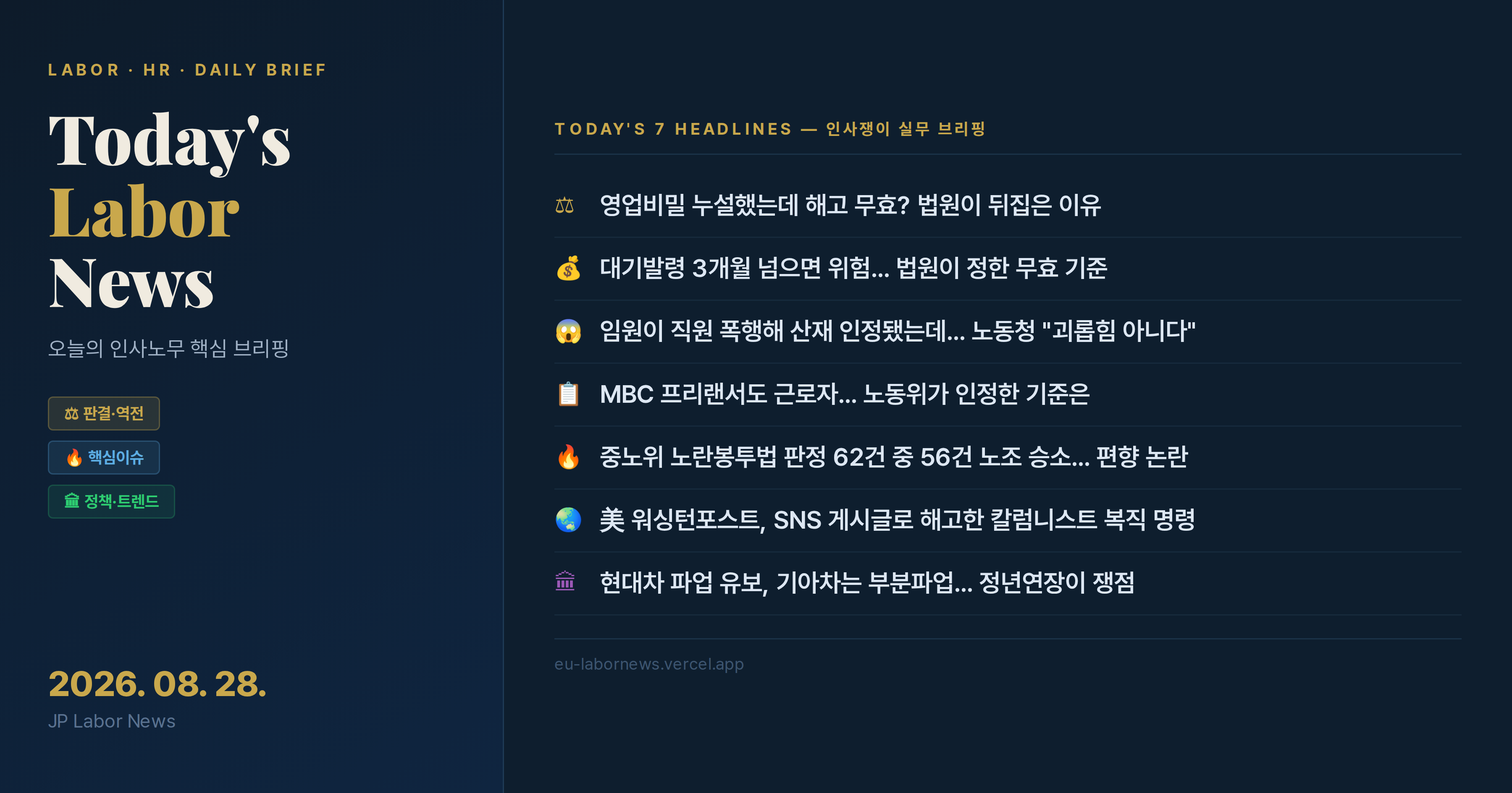
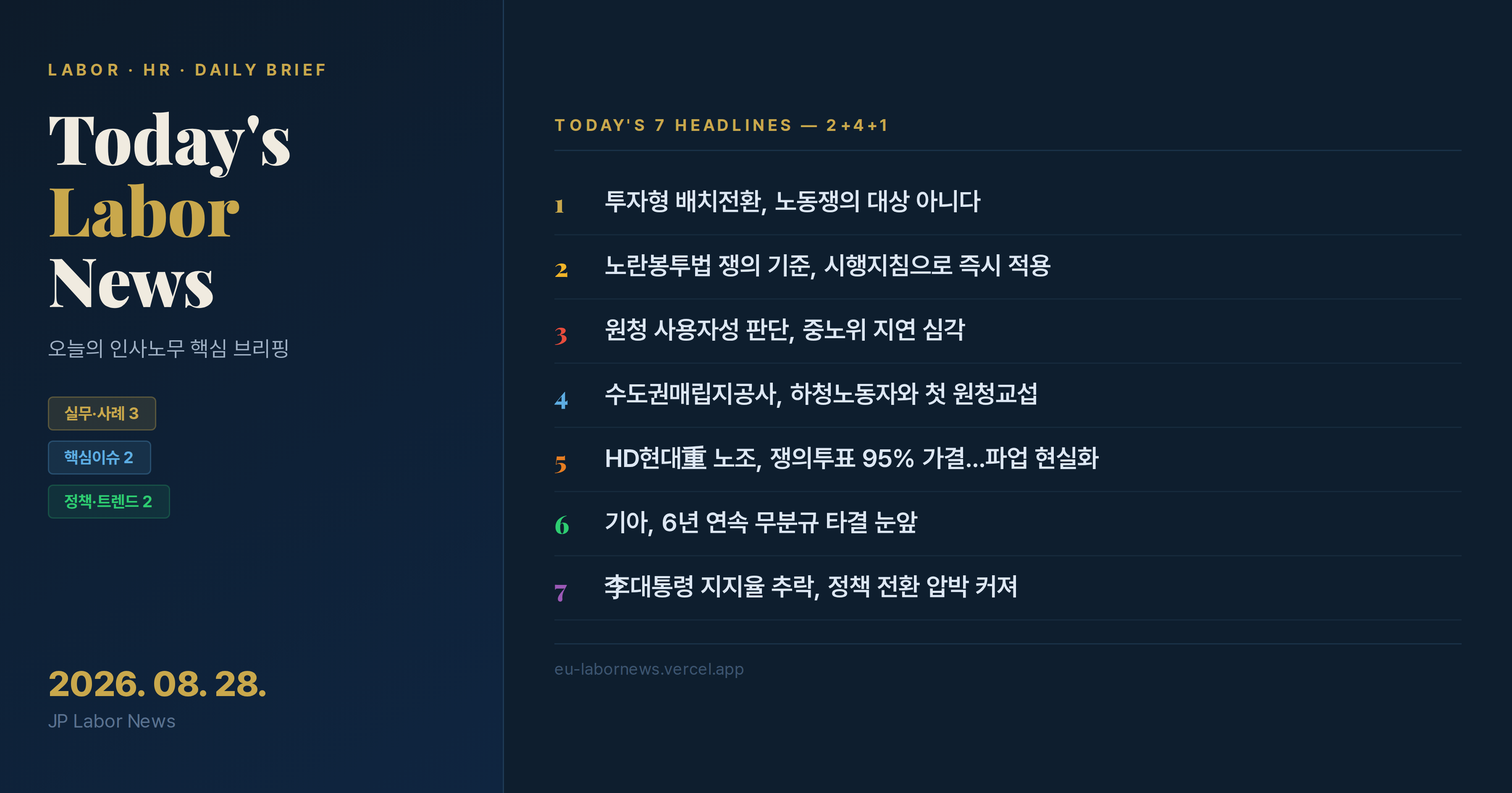
Auto: 20260828 텔레그램 카드뉴스 자동 생성

diff --git a/20260828/labornews_20260828.html b/20260828/labornews_20260828.html
@@ -109,145 +109,142 @@ body{background:var(--navy);color:var(--text-body);font-family:'Apple SD Gothic 
   <div class="headline-list"><a class="headline-item" href="#news1">
   <div class="headline-num">1</div>
   <div class="headline-content">
-    <div class="headline-source">📰 매일노동뉴스 · 2026.08.25</div>
-    <div class="headline-title">영업비밀 누설했는데 해고 무효? 법원이 뒤집은 이유</div>
+    <div class="headline-source">📰 동아일보 · 2026.08.27</div>
+    <div class="headline-title">투자형 배치전환, 노동쟁의 대상 아니다</div>
     <span class="headline-tag tag-high">🔴 핵심 이슈</span>
   </div>
 </a><a class="headline-item" href="#news2">
   <div class="headline-num">2</div>
   <div class="headline-content">
-    <div class="headline-source">📰 매일노동뉴스 · 2026.08.25</div>
-    <div class="headline-title">대기발령 3개월 넘으면 위험... 법원이 정한 무효 기준</div>
-    <span class="headline-tag tag-med">⚠ 실무 주의</span>
+    <div class="headline-source">📰 한국경제 · 2026.08.28</div>
+    <div class="headline-title">노란봉투법 쟁의 기준, 시행지침으로 즉시 적용</div>
+    <span class="headline-tag tag-high">🔴 핵심 이슈</span>
   </div>
 </a><a class="headline-item" href="#news3">
   <div class="headline-num">3</div>
   <div class="headline-content">
-    <div class="headline-source">📰 파이낸셜뉴스 · 2026.08.24</div>
-    <div class="headline-title">임원이 직원 폭행해 산재 인정됐는데... 노동청 "괴롭힘 아니다"</div>
-    <span class="headline-tag tag-high">🔴 핵심 이슈</span>
+    <div class="headline-source">📰 동아일보 · 2026.08.27</div>
+    <div class="headline-title">원청 사용자성 판단, 중노위 지연 심각</div>
+    <span class="headline-tag tag-med">⚠ 주의</span>
   </div>
 </a><a class="headline-item" href="#news4">
   <div class="headline-num">4</div>
   <div class="headline-content">
-    <div class="headline-source">📰 매일노동뉴스 · 2026.08.28</div>
-    <div class="headline-title">MBC 프리랜서도 근로자... 노동위가 인정한 기준은</div>
-    <span class="headline-tag tag-med">⚠ 실무 주의</span>
+    <div class="headline-source">📰 인천투데이 · 2026.08.27</div>
+    <div class="headline-title">수도권매립지공사, 하청노동자와 첫 원청교섭</div>
+    <span class="headline-tag tag-info">ℹ 참고</span>
   </div>
 </a><a class="headline-item" href="#news5">
   <div class="headline-num">5</div>
   <div class="headline-content">
-    <div class="headline-source">📰 중앙노동위원회 · 2026.08.27</div>
-    <div class="headline-title">중노위 노란봉투법 판정 62건 중 56건 노조 승소... 편향 논란</div>
+    <div class="headline-source">📰 헤럴드경제 · 2026.08.28</div>
+    <div class="headline-title">HD현대重 노조, 쟁의투표 95% 가결…파업 현실화</div>
     <span class="headline-tag tag-high">🔴 핵심 이슈</span>
   </div>
 </a><a class="headline-item" href="#news6">
   <div class="headline-num">6</div>
   <div class="headline-content">
-    <div class="headline-source">📰 월스트리트저널 · 2026.08.25</div>
-    <div class="headline-title">美 워싱턴포스트, SNS 게시글로 해고한 칼럼니스트 복직 명령</div>
-    <span class="headline-tag tag-info">ℹ 해외 동향</span>
+    <div class="headline-source">📰 서울파이낸스 · 2026.08.26</div>
+    <div class="headline-title">기아, 6년 연속 무분규 타결 눈앞</div>
+    <span class="headline-tag tag-info">ℹ 참고</span>
   </div>
 </a><a class="headline-item" href="#news7">
   <div class="headline-num">7</div>
   <div class="headline-content">
-    <div class="headline-source">📰 서울경제 · 2026.08.24</div>
-    <div class="headline-title">현대차 파업 유보, 기아차는 부분파업... 정년연장이 쟁점</div>
-    <span class="headline-tag tag-med">⚠ 실무 주의</span>
+    <div class="headline-source">📰 위클리오늘 · 2026.08.27</div>
+    <div class="headline-title">李대통령 지지율 추락, 정책 전환 압박 커져</div>
+    <span class="headline-tag tag-med">⚠ 주의</span>
   </div>
 </a></div>
 </section>
 <div class="section-break section-break-law sb-law">
-  <span class="sb-icon">⚖</span>
   <div class="sb-body">
     <div class="sb-title">실무·사례</div>
     <div class="sb-desc">판결·계산기준·직장사건 — 인사쟁이 필독 3장</div>
   </div>
   <span class="sb-count">3장</span>
 </div><div class="news-card" id="news1">
-  <div class="source-bar"><span class="source-name">📰 매일노동뉴스</span><span class="source-date">2026.08.25</span></div>
+  <div class="source-bar"><span class="source-name">📰 동아일보</span><span class="source-date">2026.08.27</span></div>
   <div class="card-inner">
     <div class="risk-tag risk-high">🔴 핵심 이슈</div>
-    <div class="card-category">해고·징계</div>
-    <h2 class="card-title">영업비밀 누설했는데 해고 무효? 법원이 뒤집은 이유</h2>
-    <ul class="bullet-list"><li>엔지니어링업체 A사, 영업비밀 누설 직원 해고 → 법원 "징계위원회 절차 위반으로 해고 무효" 판결</li><li>불참한 징계위원이 나중에 회의록 서명하는 등 절차적 하자 인정, 해고사유 있어도 무효</li><li>부당해고구제 재심판정 취소소송(2025구합54175)에서 회사 패소 확정</li></ul>
-    <div class="insight"><div class="insight-label">실무 시사점</div><div class="insight-text">징계사유가 명백해도 취업규칙상 징계절차를 정확히 준수하지 않으면 해고 자체가 무효 처리됩니다. 징계위원 구성·통보·회의록 작성 등 절차 준수가 필수입니다.</div></div>
+    <div class="card-category">노조법 개정</div>
+    <h2 class="card-title">투자형 배치전환, 노동쟁의 대상 아니다</h2>
+    <ul class="bullet-list"><li>개정 노조법 '근로조건에 영향을 미치는 사업경영상 결정'의 해석 범위가 쟁점</li><li>투자 결정에 따른 배치전환이 쟁의 대상인지 여부를 둘러싼 법적 해석 제시</li><li>노동부가 내주 노사단체와 면담하여 보완안 최종 조율 예정</li></ul>
+    <div class="insight"><div class="insight-label">실무 시사점</div><div class="insight-text">3월 시행된 노조법 개정으로 기업 투자·구조조정 결정에 대한 노조 교섭권 범위가 핵심 쟁점. 법률 전문가 의견과 향후 노동부 지침을 함께 검토해야 합니다.</div></div>
   </div>
-  <div class="read-more"><span class="wm-small">© JP Labor News</span><a href="https://www.tfmedia.co.kr/news/article.html?no=206678" target="_blank">자세히 보기</a></div>
+  <div class="read-more"><span class="wm-small">© JP Labor News</span><a href="https://www.donga.com/news/Opinion/article/all/20260827/134559937/2" target="_blank">자세히 보기</a></div>
 </div><div class="news-card" id="news2">
-  <div class="source-bar"><span class="source-name">📰 매일노동뉴스</span><span class="source-date">2026.08.25</span></div>
-  <div class="card-inner">
-    <div class="risk-tag risk-med">⚠ 실무 주의</div>
-    <div class="card-category">인사발령</div>
-    <h2 class="card-title">대기발령 3개월 넘으면 위험... 법원이 정한 무효 기준</h2>
-    <ul class="bullet-list"><li>대기발령은 해고·징계와 구별되는 잠정적 인사조치이나, 장기화 시 부당인사로 판정 가능</li><li>대기발령 필요성 소멸 후에도 계속 유지하면 그 이후 발령은 무효 처리</li><li>업무배제 목적의 대기발령은 정당한 사유 없으면 권리남용으로 인정</li></ul>
-    <div class="insight"><div class="insight-label">실무 시사점</div><div class="insight-text">대기발령은 임시조치로만 활용해야 하며, 필요성이 사라진 후에도 장기 방치하면 부당인사로 무효 판정됩니다. 발령 사유와 기간을 명확히 관리해야 합니다.</div></div>
-  </div>
-  <div class="read-more"><span class="wm-small">© JP Labor News</span><a href="http://www.lec.co.kr/news/articleView.html?idxno=752613" target="_blank">자세히 보기</a></div>
-</div><div class="news-card" id="news3">
-  <div class="source-bar"><span class="source-name">📰 파이낸셜뉴스</span><span class="source-date">2026.08.24</span></div>
+  <div class="source-bar"><span class="source-name">📰 한국경제</span><span class="source-date">2026.08.28</span></div>
   <div class="card-inner">
     <div class="risk-tag risk-high">🔴 핵심 이슈</div>
-    <div class="card-category">직장내괴롭힘</div>
-    <h2 class="card-title">임원이 직원 폭행해 산재 인정됐는데... 노동청 "괴롭힘 아니다"</h2>
-    <ul class="bullet-list"><li>대법원에서 부당해고 인정받아 복직한 근로자, 회사 임원에게 폭행당해 산재 판정 받음</li><li>가해 임원은 폭행혐의로 검찰 구약식 처분, 산재도 인정됐으나 고용노동청은 직장내 괴롭힘 불인정</li><li>산재·형사처벌 인정되어도 고용부의 괴롭힘 판단 기준은 별도 적용</li></ul>
-    <div class="insight"><div class="insight-label">실무 시사점</div><div class="insight-text">산재 승인이나 형사처벌만으로 직장내 괴롭힘이 자동 인정되는 것은 아닙니다. 고용부는 업무관련성·우월적 지위 등을 별도 심사하므로 내부 조사 시 주의해야 합니다.</div></div>
+    <div class="card-category">노동행정</div>
+    <h2 class="card-title">노란봉투법 쟁의 기준, 시행지침으로 즉시 적용</h2>
+    <ul class="bullet-list"><li>청와대, 노조 쟁의행위 범위 기준을 시행령 대신 시행지침으로 구체화 결정</li><li>시행령은 입법예고·규제심사 등 3개월 이상 소요, 현장 혼란 해소 위해 신속 적용</li><li>삼성전자 노조의 영업이익 연동 성과급 요구 등이 쟁의 대상 해당 여부 판단 기준 제시</li></ul>
+    <div class="insight"><div class="insight-label">실무 시사점</div><div class="insight-text">시행지침은 법적 구속력이 시행령보다 약하지만 즉시 적용 가능. 향후 발표될 구체적 기준을 보고 노사 교섭 전략을 재검토해야 합니다.</div></div>
   </div>
-  <div class="read-more"><span class="wm-small">© JP Labor News</span><a href="http://www.fnnews.com/news/202608200916043192" target="_blank">자세히 보기</a></div>
+  <div class="read-more"><span class="wm-small">© JP Labor News</span><a href="https://www.hankyung.com/article/202608288643H" target="_blank">자세히 보기</a></div>
+</div><div class="news-card" id="news3">
+  <div class="source-bar"><span class="source-name">📰 동아일보</span><span class="source-date">2026.08.27</span></div>
+  <div class="card-inner">
+    <div class="risk-tag risk-med">⚠ 주의</div>
+    <div class="card-category">노동위원회</div>
+    <h2 class="card-title">원청 사용자성 판단, 중노위 지연 심각</h2>
+    <ul class="bullet-list"><li>중앙노동위원회의 원청 사용자성 판단이 지연되며 노사 모두 불확실성 증가</li><li>처리 기간 단축을 위해 간단한 사건 우선 처리하지만, 중대 사안은 오히려 장기화</li><li>현대차 하청 노동자 사용자성 판단이 8월 31일 나올 예정</li></ul>
+    <div class="insight"><div class="insight-label">실무 시사점</div><div class="insight-text">원청 사용자성 인정 여부는 하청 노조와의 교섭 의무를 결정하는 중대 사안. 중노위 결정 시점과 결과를 사전에 파악하고 대응 시나리오를 준비해야 합니다.</div></div>
+  </div>
+  <div class="read-more"><span class="wm-small">© JP Labor News</span><a href="https://www.donga.com/news/Opinion/article/all/20260827/134560035/2" target="_blank">자세히 보기</a></div>
 </div><div class="section-break section-break-industry sb-industry">
-  <span class="sb-icon">🔥</span>
   <div class="sb-body">
     <div class="sb-title">핵심 이슈</div>
     <div class="sb-desc">즉시 적용 변경사항 + 오늘의 핵심 노동뉴스</div>
   </div>
   <span class="sb-count">2장</span>
 </div><div class="news-card" id="news4">
-  <div class="source-bar"><span class="source-name">📰 매일노동뉴스</span><span class="source-date">2026.08.28</span></div>
+  <div class="source-bar"><span class="source-name">📰 인천투데이</span><span class="source-date">2026.08.27</span></div>
   <div class="card-inner">
-    <div class="risk-tag risk-med">⚠ 실무 주의</div>
-    <div class="card-category">근로자성</div>
-    <h2 class="card-title">MBC 프리랜서도 근로자... 노동위가 인정한 기준은</h2>
-    <ul class="bullet-list"><li>MBC 프리랜서 최씨, 컨펌 없이 일했다 계약해지 → 서울지노위 "근로기준법상 근로자" 인정</li><li>지난 24일 서울지노위, 계약해지를 부당해고로 판정하고 구제명령</li><li>고 오요안나 동료 사건으로, 프리랜서 형식이어도 실질적 근로관계 있으면 근로자 인정</li></ul>
-    <div class="insight"><div class="insight-label">실무 시사점</div><div class="insight-text">프리랜서·도급 계약 형식이라도 지휘명령·근로제공 의무·시간·장소 구속 등 실질 관계를 기준으로 근로자성을 판단합니다. 계약서 형식만으로는 보호받지 못합니다.</div></div>
+    <div class="risk-tag risk-info">ℹ 참고</div>
+    <div class="card-category">원청교섭</div>
+    <h2 class="card-title">수도권매립지공사, 하청노동자와 첫 원청교섭</h2>
+    <ul class="bullet-list"><li>수도권매립지공사가 드림파크골프장 하청 노동자와 첫 원청 교섭 진행</li><li>인천지노위·중노위가 공사의 '원청 사용자성'을 확인한 끝에 교섭 성사</li><li>노란봉투법 시행 후 공공기관 중소사업장의 원청교섭 첫 사례</li></ul>
+    <div class="insight"><div class="insight-label">실무 시사점</div><div class="insight-text">중소 공공기관도 하청 노동자에 대한 원청 사용자성이 인정될 수 있음을 보여주는 사례. 용역·도급 구조를 운영하는 기관은 교섭 가능성을 사전 점검해야 합니다.</div></div>
   </div>
-  <div class="read-more"><span class="wm-small">© JP Labor News</span><a href="https://www.labortoday.co.kr/news/articleView.html?idxno=236470" target="_blank">자세히 보기</a></div>
+  <div class="read-more"><span class="wm-small">© JP Labor News</span><a href="https://www.incheontoday.com/news/articleView.html?idxno=322809" target="_blank">자세히 보기</a></div>
 </div><div class="news-card" id="news5">
-  <div class="source-bar"><span class="source-name">📰 중앙노동위원회</span><span class="source-date">2026.08.27</span></div>
+  <div class="source-bar"><span class="source-name">📰 헤럴드경제</span><span class="source-date">2026.08.28</span></div>
   <div class="card-inner">
     <div class="risk-tag risk-high">🔴 핵심 이슈</div>
-    <div class="card-category">노동위원회</div>
-    <h2 class="card-title">중노위 노란봉투법 판정 62건 중 56건 노조 승소... 편향 논란</h2>
-    <ul class="bullet-list"><li>국민의힘 우재준 의원실 자료, 중노위가 판정한 노란봉투법 관련 사건 62건 중 56건이 노조 승소</li><li>약 90% 이상이 노조에 유리한 판정으로, 중노위 심판 공정성 논란 확대</li><li>사용자 측 "축구협회 심판보다 못하다"는 비판까지 제기</li></ul>
-    <div class="insight"><div class="insight-label">실무 시사점</div><div class="insight-text">노란봉투법 시행 이후 중노위 판정의 노조 편향성 논란이 커지고 있습니다. 원청 사용자성·쟁의행위 정당성 판단 시 법원 소송까지 염두에 둔 대응 전략이 필요합니다.</div></div>
+    <div class="card-category">파업</div>
+    <h2 class="card-title">HD현대重 노조, 쟁의투표 95% 가결…파업 현실화</h2>
+    <ul class="bullet-list"><li>HD현대중공업 노조, 쟁의행위 찬반투표 가결 (찬성률 95%)</li><li>영업이익 30% 성과 공유, 임금 14.9만원 인상, 성과금 1000만원 요구</li><li>9월 1일 본교섭 결렬 시 부분파업 예상, 교섭 횟수 주 3회로 증가</li></ul>
+    <div class="insight"><div class="insight-label">실무 시사점</div><div class="insight-text">역대급 호황 속 조선업계 노조의 성과 배분 요구가 강화되고 있음. 파업 시 생산 일정 차질로 납기 지연 우려, 협력사 포함 공급망 전체 점검 필요합니다.</div></div>
   </div>
-  <div class="read-more"><span class="wm-small">© JP Labor News</span><a href="https://www.donga.com/news/Opinion/article/all/20260827/134560035/2" target="_blank">자세히 보기</a></div>
+  <div class="read-more"><span class="wm-small">© JP Labor News</span><a href="https://biz.heraldcorp.com/article/10855100?ref=naver" target="_blank">자세히 보기</a></div>
 </div><div class="section-break section-break-policy sb-policy">
-  <span class="sb-icon">🏛</span>
   <div class="sb-body">
     <div class="sb-title">트렌드·정책</div>
     <div class="sb-desc">해외동향·HR Tech + 고용노동부·국회 뉴스</div>
   </div>
   <span class="sb-count">2장</span>
 </div><div class="news-card" id="news6">
-  <div class="source-bar"><span class="source-name">📰 월스트리트저널</span><span class="source-date">2026.08.25</span></div>
+  <div class="source-bar"><span class="source-name">📰 서울파이낸스</span><span class="source-date">2026.08.26</span></div>
   <div class="card-inner">
-    <div class="risk-tag risk-info">ℹ 해외 동향</div>
-    <div class="card-category">해외노동</div>
-    <h2 class="card-title">美 워싱턴포스트, SNS 게시글로 해고한 칼럼니스트 복직 명령</h2>
-    <ul class="bullet-list"><li>워싱턴포스트, 커크 총격 사건 관련 SNS 게시글 이유로 칼럼리스트 아티아 해고</li><li>독립 중재인 "해고는 부당하고 과도" 판정, WP에 복직 명령</li><li>중재인 사라 밀러 에스피노사 판사 "표현의 자유 침해" 판단</li></ul>
-    <div class="insight"><div class="insight-label">실무 시사점</div><div class="insight-text">미국도 SNS 발언을 이유로 한 해고가 과도한 처분으로 판정받고 있습니다. 국내에서도 직원 SNS 관리 시 표현의 자유와 회사 명예 사이 균형을 신중히 고려해야 합니다.</div></div>
+    <div class="risk-tag risk-info">ℹ 참고</div>
+    <div class="card-category">임단협</div>
+    <h2 class="card-title">기아, 6년 연속 무분규 타결 눈앞</h2>
+    <ul class="bullet-list"><li>기아 노사, 25일 잠정합의안 도출 후 28일 조합원 찬반투표 진행</li><li>현대차에 이어 기아도 분규 없이 협상 매듭, 글로벌 통상 압박 속 불확실성 해소</li><li>금속노조 전국 2차 파업에서 기아 제외, 현대차 잠정합의 직후 타결</li></ul>
+    <div class="insight"><div class="insight-label">실무 시사점</div><div class="insight-text">완성차 업계의 조기 임단협 타결은 공급망 안정과 생산 차질 예방에 긍정적. 협상 과정에서 상호 양보안을 도출한 사례로 참고할 만합니다.</div></div>
   </div>
-  <div class="read-more"><span class="wm-small">© JP Labor News</span><a href="https://www.newsis.com/view/NISX20260825_0003762117" target="_blank">자세히 보기</a></div>
+  <div class="read-more"><span class="wm-small">© JP Labor News</span><a href="https://www.seoulfn.com/news/articleView.html?idxno=636450" target="_blank">자세히 보기</a></div>
 </div><div class="news-card" id="news7">
-  <div class="source-bar"><span class="source-name">📰 서울경제</span><span class="source-date">2026.08.24</span></div>
+  <div class="source-bar"><span class="source-name">📰 위클리오늘</span><span class="source-date">2026.08.27</span></div>
   <div class="card-inner">
-    <div class="risk-tag risk-med">⚠ 실무 주의</div>
-    <div class="card-category">노사관계</div>
-    <h2 class="card-title">현대차 파업 유보, 기아차는 부분파업... 정년연장이 쟁점</h2>
-    <ul class="bullet-list"><li>현대차 노조 파업 유보하고 교섭 재개, 기아차는 9월 부분파업 예고</li><li>임금 인상·상여금 50% 인상·해고 조합원 복직·정년 연장 등 쟁점 미해결</li><li>취업규칙 징계절차 미준수 시 해고 무효 판결도 영향</li></ul>
-    <div class="insight"><div class="insight-label">실무 시사점</div><div class="insight-text">완성차 노조는 임금 외에도 정년연장·복직 문제를 핵심 요구로 제기 중입니다. 정년연장은 인건비·인력구조에 장기 영향을 미치므로 중장기 인력계획과 연계해 검토해야 합니다.</div></div>
+    <div class="risk-tag risk-med">⚠ 주의</div>
+    <div class="card-category">정책</div>
+    <h2 class="card-title">李대통령 지지율 추락, 정책 전환 압박 커져</h2>
+    <ul class="bullet-list"><li>이재명 대통령 지지율 36.5%로 하락, 노조법 개정 후 현장 분쟁 발생 영향</li><li>대통령이 교섭·쟁의 대상 해석 기준 마련 필요성 언급, 명확한 가이드라인 요구</li><li>호남 반도체 투자·노란봉투법 논란 속 경제정책 불안 지속</li></ul>
+    <div class="insight"><div class="insight-label">실무 시사점</div><div class="insight-text">정부의 노조법 해석 기준 마련이 정치적 압박으로 작용하며 조기 발표 가능성 증가. 향후 정책 방향을 주시하며 내부 대응 체계를 점검해야 합니다.</div></div>
   </div>
-  <div class="read-more"><span class="wm-small">© JP Labor News</span><a href="https://www.sedaily.com/article/20082439?ref=naver" target="_blank">자세히 보기</a></div>
+  <div class="read-more"><span class="wm-small">© JP Labor News</span><a href="http://www.weeklytoday.com/news/articleView.html?idxno=791884" target="_blank">자세히 보기</a></div>
 </div>
 
 <!-- ── 공유 바: 마지막 카드 아래, 푸터 위 ── -->

diff --git a/20260828/send_20260828.html b/20260828/send_20260828.html
@@ -7,8 +7,8 @@
   <div class="icon">📨</div>
   <div class="title">오늘의 카드뉴스 발송</div>
   <div class="date">2026. 08. 28. 금요일</div>
-  <div class="news-list"><div class="news-list-title">오늘의 헤드라인</div><div class="news-item"><span class="news-num">1</span>영업비밀 누설했는데 해고 무효? 법원이 뒤집은 이유</div><div class="news-item"><span class="news-num">2</span>대기발령 3개월 넘으면 위험... 법원이 정한 무효 기준</div><div class="news-item"><span class="news-num">3</span>임원이 직원 폭행해 산재 인정됐는데... 노동청 "괴롭힘 아니다"</div><div class="news-item"><span class="news-num">4</span>MBC 프리랜서도 근로자... 노동위가 인정한 기준은</div><div class="news-item"><span class="news-num">5</span>중노위 노란봉투법 판정 62건 중 56건 노조 승소... 편향 논란</div><div class="news-item"><span class="news-num">6</span>美 워싱턴포스트, SNS 게시글로 해고한 칼럼니스트 복직 명령</div><div class="news-item"><span class="news-num">7</span>현대차 파업 유보, 기아차는 부분파업... 정년연장이 쟁점</div></div>
-  <a class="btn" href="https://api.telegram.org/bot8410721070:AAFmLPGoM39IsMYuIqr7Hbga-vi9gD2hBqk/sendPhoto?chat_id=%40jplabornews&photo=https%3A//eu-labornews.vercel.app/thumbnail_telegram.png%3Fv%3D20260828&caption=%F0%9F%93%8B%20%EC%98%A4%EB%8A%98%EC%9D%98%20%EC%9D%B8%EC%82%AC%EB%85%B8%EB%AC%B4%20%EB%B8%8C%EB%A6%AC%ED%95%91%20%E2%80%94%202026.%2008.%2028.%20%28%EA%B8%88%29%0A%0A1%EF%B8%8F%E2%83%A3%20%EC%98%81%EC%97%85%EB%B9%84%EB%B0%80%20%EB%88%84%EC%84%A4%ED%96%88%EB%8A%94%EB%8D%B0%20%ED%95%B4%EA%B3%A0%20%EB%AC%B4%ED%9A%A8%3F%20%EB%B2%95%EC%9B%90%EC%9D%B4%20%EB%92%A4%EC%A7%91%EC%9D%80%20%EC%9D%B4%EC%9C%A0%0A2%EF%B8%8F%E2%83%A3%20%EB%8C%80%EA%B8%B0%EB%B0%9C%EB%A0%B9%203%EA%B0%9C%EC%9B%94%20%EB%84%98%EC%9C%BC%EB%A9%B4%20%EC%9C%84%ED%97%98...%20%EB%B2%95%EC%9B%90%EC%9D%B4%20%EC%A0%95%ED%95%9C%20%EB%AC%B4%ED%9A%A8%20%EA%B8%B0%EC%A4%80%0A3%EF%B8%8F%E2%83%A3%20%EC%9E%84%EC%9B%90%EC%9D%B4%20%EC%A7%81%EC%9B%90%20%ED%8F%AD%ED%96%89%ED%95%B4%20%EC%82%B0%EC%9E%AC%20%EC%9D%B8%EC%A0%95%EB%90%90%EB%8A%94%EB%8D%B0...%20%EB%85%B8%EB%8F%99%EC%B2%AD%20%22%EA%B4%B4%EB%A1%AD%ED%9E%98%20%EC%95%84%EB%8B%88%EB%8B%A4%22%0A4%EF%B8%8F%E2%83%A3%20MBC%20%ED%94%84%EB%A6%AC%EB%9E%9C%EC%84%9C%EB%8F%84%20%EA%B7%BC%EB%A1%9C%EC%9E%90...%20%EB%85%B8%EB%8F%99%EC%9C%84%EA%B0%80%20%EC%9D%B8%EC%A0%95%ED%95%9C%20%EA%B8%B0%EC%A4%80%EC%9D%80%0A5%EF%B8%8F%E2%83%A3%20%EC%A4%91%EB%85%B8%EC%9C%84%20%EB%85%B8%EB%9E%80%EB%B4%89%ED%88%AC%EB%B2%95%20%ED%8C%90%EC%A0%95%2062%EA%B1%B4%20%EC%A4%91%2056%EA%B1%B4%20%EB%85%B8%EC%A1%B0%20%EC%8A%B9%EC%86%8C...%20%ED%8E%B8%ED%96%A5%20%EB%85%BC%EB%9E%80%0A6%EF%B8%8F%E2%83%A3%20%E7%BE%8E%20%EC%9B%8C%EC%8B%B1%ED%84%B4%ED%8F%AC%EC%8A%A4%ED%8A%B8%2C%20SNS%20%EA%B2%8C%EC%8B%9C%EA%B8%80%EB%A1%9C%20%ED%95%B4%EA%B3%A0%ED%95%9C%20%EC%B9%BC%EB%9F%BC%EB%8B%88%EC%8A%A4%ED%8A%B8%20%EB%B3%B5%EC%A7%81%20%EB%AA%85%EB%A0%B9%0A7%EF%B8%8F%E2%83%A3%20%ED%98%84%EB%8C%80%EC%B0%A8%20%ED%8C%8C%EC%97%85%20%EC%9C%A0%EB%B3%B4%2C%20%EA%B8%B0%EC%95%84%EC%B0%A8%EB%8A%94%20%EB%B6%80%EB%B6%84%ED%8C%8C%EC%97%85...%20%EC%A0%95%EB%85%84%EC%97%B0%EC%9E%A5%EC%9D%B4%20%EC%9F%81%EC%A0%90%0A%0A%F0%9F%94%97%20%EC%A0%84%EC%B2%B4%20%EC%B9%B4%EB%93%9C%EB%89%B4%EC%8A%A4%3A%0Ahttps%3A//eu-labornews.vercel.app/20260828/labornews_20260828.html" target="_blank">📲 텔레그램으로 발송하기</a>
+  <div class="news-list"><div class="news-list-title">오늘의 헤드라인</div><div class="news-item"><span class="news-num">1</span>투자형 배치전환, 노동쟁의 대상 아니다</div><div class="news-item"><span class="news-num">2</span>노란봉투법 쟁의 기준, 시행지침으로 즉시 적용</div><div class="news-item"><span class="news-num">3</span>원청 사용자성 판단, 중노위 지연 심각</div><div class="news-item"><span class="news-num">4</span>수도권매립지공사, 하청노동자와 첫 원청교섭</div><div class="news-item"><span class="news-num">5</span>HD현대重 노조, 쟁의투표 95% 가결…파업 현실화</div><div class="news-item"><span class="news-num">6</span>기아, 6년 연속 무분규 타결 눈앞</div><div class="news-item"><span class="news-num">7</span>李대통령 지지율 추락, 정책 전환 압박 커져</div></div>
+  <a class="btn" href="https://api.telegram.org/bot8410721070:AAFmLPGoM39IsMYuIqr7Hbga-vi9gD2hBqk/sendPhoto?chat_id=%40jplabornews&photo=https%3A//eu-labornews.vercel.app/thumbnail_telegram.png%3Fv%3D20260828&caption=%F0%9F%93%8B%20%EC%98%A4%EB%8A%98%EC%9D%98%20%EC%9D%B8%EC%82%AC%EB%85%B8%EB%AC%B4%20%EB%B8%8C%EB%A6%AC%ED%95%91%20%E2%80%94%202026.%2008.%2028.%20%28%EA%B8%88%29%0A%0A1%EF%B8%8F%E2%83%A3%20%ED%88%AC%EC%9E%90%ED%98%95%20%EB%B0%B0%EC%B9%98%EC%A0%84%ED%99%98%2C%20%EB%85%B8%EB%8F%99%EC%9F%81%EC%9D%98%20%EB%8C%80%EC%83%81%20%EC%95%84%EB%8B%88%EB%8B%A4%0A2%EF%B8%8F%E2%83%A3%20%EB%85%B8%EB%9E%80%EB%B4%89%ED%88%AC%EB%B2%95%20%EC%9F%81%EC%9D%98%20%EA%B8%B0%EC%A4%80%2C%20%EC%8B%9C%ED%96%89%EC%A7%80%EC%B9%A8%EC%9C%BC%EB%A1%9C%20%EC%A6%89%EC%8B%9C%20%EC%A0%81%EC%9A%A9%0A3%EF%B8%8F%E2%83%A3%20%EC%9B%90%EC%B2%AD%20%EC%82%AC%EC%9A%A9%EC%9E%90%EC%84%B1%20%ED%8C%90%EB%8B%A8%2C%20%EC%A4%91%EB%85%B8%EC%9C%84%20%EC%A7%80%EC%97%B0%20%EC%8B%AC%EA%B0%81%0A4%EF%B8%8F%E2%83%A3%20%EC%88%98%EB%8F%84%EA%B6%8C%EB%A7%A4%EB%A6%BD%EC%A7%80%EA%B3%B5%EC%82%AC%2C%20%ED%95%98%EC%B2%AD%EB%85%B8%EB%8F%99%EC%9E%90%EC%99%80%20%EC%B2%AB%20%EC%9B%90%EC%B2%AD%EA%B5%90%EC%84%AD%0A5%EF%B8%8F%E2%83%A3%20HD%ED%98%84%EB%8C%80%E9%87%8D%20%EB%85%B8%EC%A1%B0%2C%20%EC%9F%81%EC%9D%98%ED%88%AC%ED%91%9C%2095%25%20%EA%B0%80%EA%B2%B0%E2%80%A6%ED%8C%8C%EC%97%85%20%ED%98%84%EC%8B%A4%ED%99%94%0A6%EF%B8%8F%E2%83%A3%20%EA%B8%B0%EC%95%84%2C%206%EB%85%84%20%EC%97%B0%EC%86%8D%20%EB%AC%B4%EB%B6%84%EA%B7%9C%20%ED%83%80%EA%B2%B0%20%EB%88%88%EC%95%9E%0A7%EF%B8%8F%E2%83%A3%20%E6%9D%8E%EB%8C%80%ED%86%B5%EB%A0%B9%20%EC%A7%80%EC%A7%80%EC%9C%A8%20%EC%B6%94%EB%9D%BD%2C%20%EC%A0%95%EC%B1%85%20%EC%A0%84%ED%99%98%20%EC%95%95%EB%B0%95%20%EC%BB%A4%EC%A0%B8%0A%0A%F0%9F%94%97%20%EC%A0%84%EC%B2%B4%20%EC%B9%B4%EB%93%9C%EB%89%B4%EC%8A%A4%3A%0Ahttps%3A//eu-labornews.vercel.app/20260828/labornews_20260828.html" target="_blank">📲 텔레그램으로 발송하기</a>
   <a class="btn-view" href="https://eu-labornews.vercel.app/20260828/labornews_20260828.html" target="_blank">전체 카드뉴스 보기</a>
   <div class="notice">버튼을 클릭하면 텔레그램으로<br>헤드라인과 카드뉴스 링크가 전송됩니다.</div>
 </div></body>
